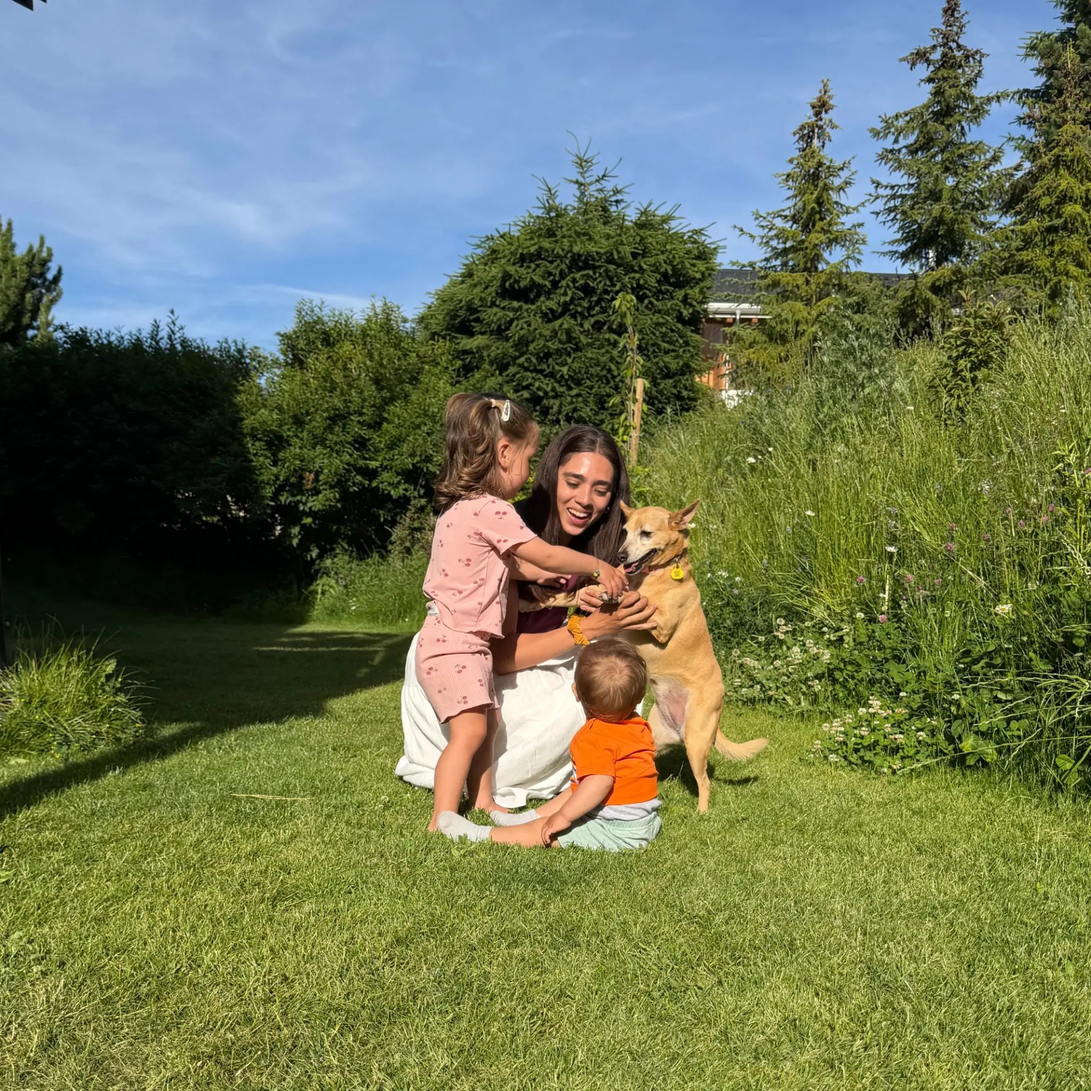
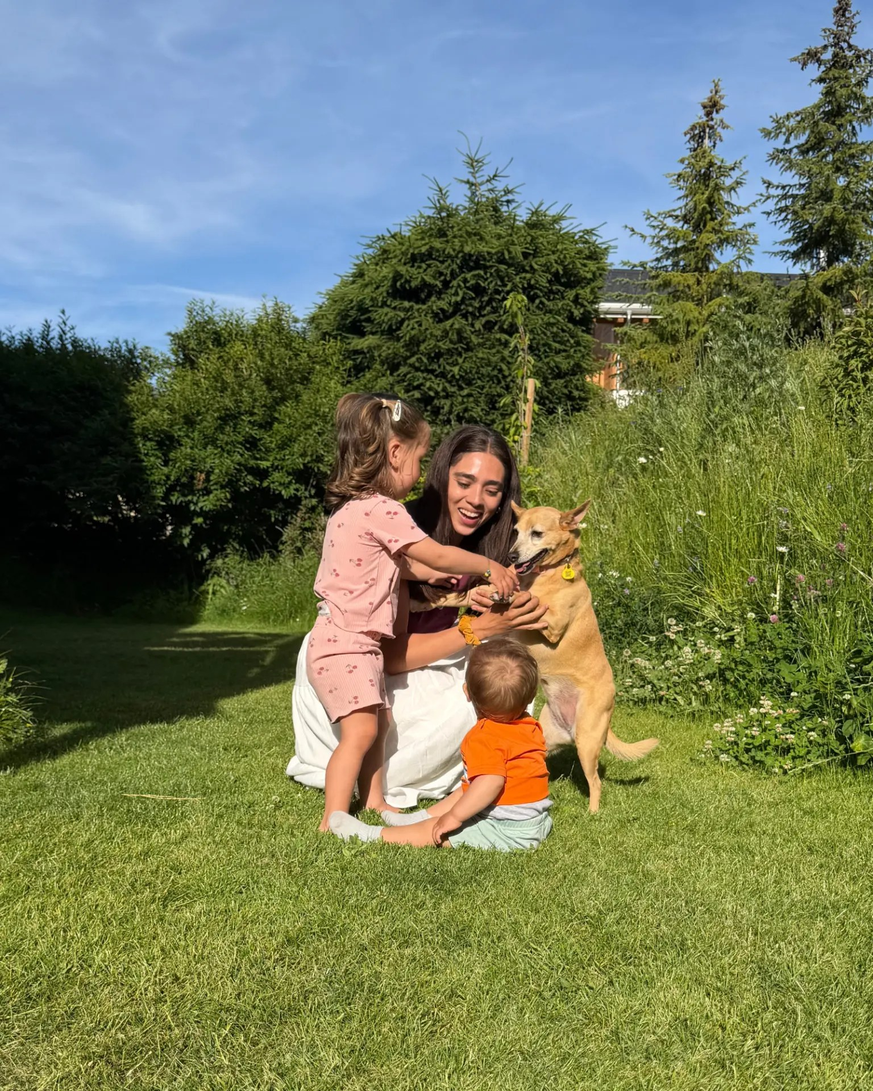
Changes

diff --git a/src/routes/lista-espera.tsx b/src/routes/lista-espera.tsx
@@ -1,6 +1,5 @@
 import { createFileRoute } from "@tanstack/react-router";
 import { LeadForm } from "@/components/lead-form";
-import newsletterSticker from "@/assets/newsletter-sticker.png";
 
 export const Route = createFileRoute("/lista-espera")({
   head: () => ({
@@ -22,8 +21,7 @@ function WaitlistPage() {
     <div className="waitlist-page">
       <section className="newsletter-home">
         <figure className="newsletter-photo">
-          <img src="/media/embarazo-perro.jpg" alt="Familia con su perro compartiendo tiempo juntos" />
-          <img className="newsletter-sticker" src={newsletterSticker} alt="" />
+          <img src="/media/lista-espera-familia.jpg" alt="Silvia con sus hijos y su perro en el jardín" />
         </figure>
         <div className="newsletter-copy">
           <h2>Segunda edición, muy pronto</h2>
